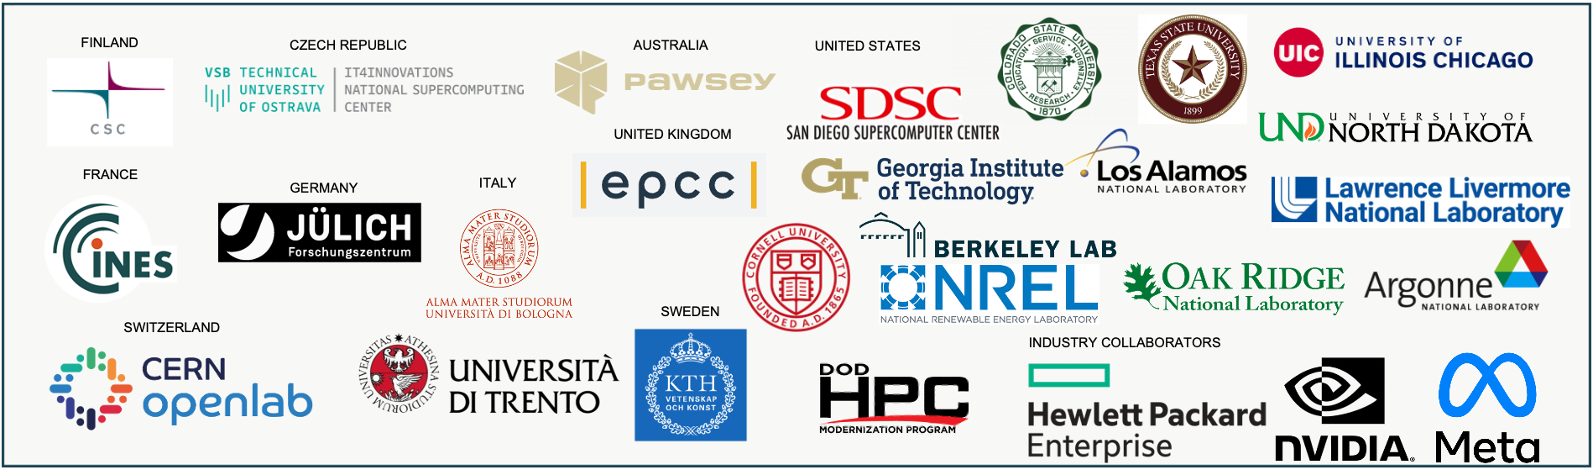
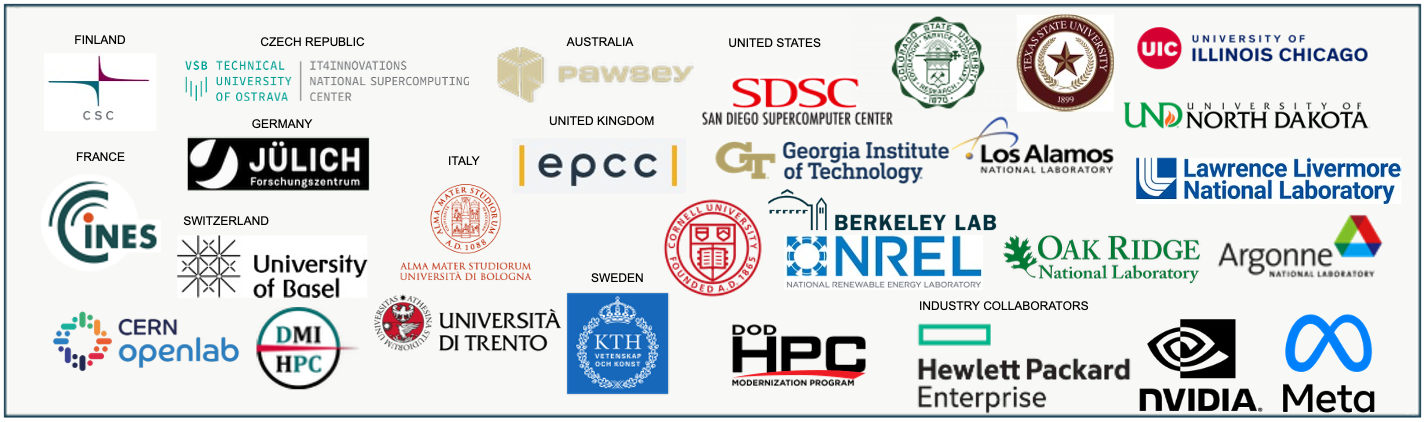
Update community.png with Univ of Basel and DMI HPC. Add clickable url map.

diff --git a/index.html b/index.html
@@ -152,7 +152,40 @@ twins: Part 1, demonstration at exascale.”</a></b> In Proceedings of the 2024 
       <section id="organizations" class="org_banner_container">
         <div class="orgs">
           <h2> Participating Organizations </h2>
-            <img src="images/community.png">
+            <img src="images/community.png" usemap="#orgmap" alt="Participating Organizations">
+
+            <map name="orgmap">
+                <area target="_blank" alt="CSC Finland" title="CSC Finland" href="https://csc.fi/" coords="40,52,165,131" shape="rect">
+                <area target="_blank" alt="IT4Innovations National Supercomputing Center" title="IT4Innovations National Supercomputing Center" href="https://www.it4i.cz/en" coords="470,110,175,52" shape="rect">
+                <area target="_blank" alt="Pawsey Supercomputing Centre" title="Pawsey Supercomputing Centre" href="https://pawsey.org.au/" coords="696,105,494,45" shape="rect">
+                <area target="_blank" alt="San Diego Supercomputing Center" title="San Diego Supercomputing Center" href="https://www.sdsc.edu/" coords="892,127,701,77" shape="rect">
+                <area target="_blank" alt="Colorado State University" title="Colorado State University" href="https://www.colostate.edu/" coords="938,63,45" shape="circle">
+                <area target="_blank" alt="Texas State University" title="Texas State University" href="https://www.txst.edu/" coords="1066,63,46" shape="circle">
+                <area target="_blank" alt="University of Illinois Chicago" title="University of Illinois Chicago" href="https://www.uic.edu/" coords="1133,23,1369,74" shape="rect">
+                <area target="_blank" alt="Jülich Supercomputing Centre" title="Jülich Supercomputing Centre" href="https://www.fz-juelich.de/en" coords="369,191,188,137" shape="rect">
+                <area target="_blank" alt="Centre Informatique National de l’Enseignement Supérieur (CINES)" title="Centre Informatique National de l’Enseignement Supérieur (CINES)" href="https://www.cines.fr/calcul/adastra/" coords="102,232,53" shape="circle">
+                <area target="_blank" alt="University of Basel" title="University of Basel" href="https://www.unibas.ch/en.html" coords="370,304,173,236" shape="rect">
+                <area target="_blank" alt="University of Bologna" title="University of Bologna" href="https://www.unibo.it/en" coords="534,282,398,185" shape="rect">
+                <area target="_blank" alt="Edinburgh Parallel Computing Centre" title="Edinburgh Parallel Computing Centre" href="https://www.epcc.ed.ac.uk/" coords="516,135,682,184" shape="rect">
+                <area target="_blank" alt="Georgia Tech" title="Georgia Tech" href="https://www.gatech.edu" coords="949,181,709,139" shape="rect">
+                <area target="_blank" alt="Los Alamos National Laboratory" title="Los Alamos National Laboratory" href="https://www.lanl.gov/" coords="952,116,1115,176" shape="rect">
+                <area target="_blank" alt="University of North Dakota" title="University of North Dakota" href="https://und.edu/" coords="1369,136,1121,94" shape="rect">
+                <area target="_blank" alt="Lawrence Livermore National Laboratory" title="Lawrence Livermore National Laboratory" href="https://www.llnl.gov/" coords="1401,203,1132,154" shape="rect">
+                <area target="_blank" alt="Cornell Tech" title="Cornell Tech" href="https://tech.cornell.edu/" coords="712,248,48" shape="circle">
+                <area target="_blank" alt="Lawrence Berkeley National Laboratory" title="Lawrence Berkeley National Laboratory" href="https://www.lbl.gov/" coords="998,233,762,186" shape="rect">
+                <area target="_blank" alt="National Renewable Energy Laboratory (NREL)" title="National Renewable Energy Laboratory (NREL)" href="https://www.nrel.gov/" coords="781,236,986,292" shape="rect">
+                <area target="_blank" alt="Oak Ridge National Laboratory (ORNL)" title="Oak Ridge National Laboratory (ORNL)" href="https://www.ornl.gov/" coords="1199,236,1003,283" shape="rect">
+                <area target="_blank" alt="Argonne National Laboratory (ANL)" title="Argonne National Laboratory (ANL)" href="https://www.anl.gov/" coords="1215,213,1388,280" shape="rect">
+                <area target="_blank" alt="CERN openlab" title="CERN openlab" href="https://openlab.cern/" coords="51,311,240,374" shape="rect">
+                <area target="_blank" alt="University of Basel HPC Group" title="University of Basel HPC Group" href="https://hpc.dmi.unibas.ch/" coords="298,349,41" shape="circle">
+                <area target="_blank" alt="University of Trento" title="University of Trento" href="https://www.unitn.it/en" coords="373,292,560,354" shape="rect">
+                <area target="_blank" alt="KTH Royal Institute of Technology" title="KTH Royal Institute of Technology" href="https://www.kth.se/en" coords="567,294,666,393" shape="rect">
+                <area target="_blank" alt="Department of Defense High Performance Computing Modernization Program (HPCMP)" title="Department of Defense High Performance Computing Modernization Program (HPCMP)" href="https://hpc.mil" coords="869,389,728,320" shape="rect">
+                <area target="_blank" alt="Hewlett Packard Enterprise" title="Hewlett Packard Enterprise" href="https://www.hpe.com/us/en/hewlett-packard-labs.html" coords="1132,413,913,319" shape="rect">
+                <area target="_blank" alt="NVIDIA" title="NVIDIA" href="https://www.nvidia.com/en-us/" coords="1137,316,1262,411" shape="rect">
+                <area target="_blank" alt="Meta Datacenters" title="Meta Datacenters" href="https://datacenters.atmeta.com/" coords="1377,413,1277,311" shape="rect">
+            </map>
+
         </div>
       </section>
   
